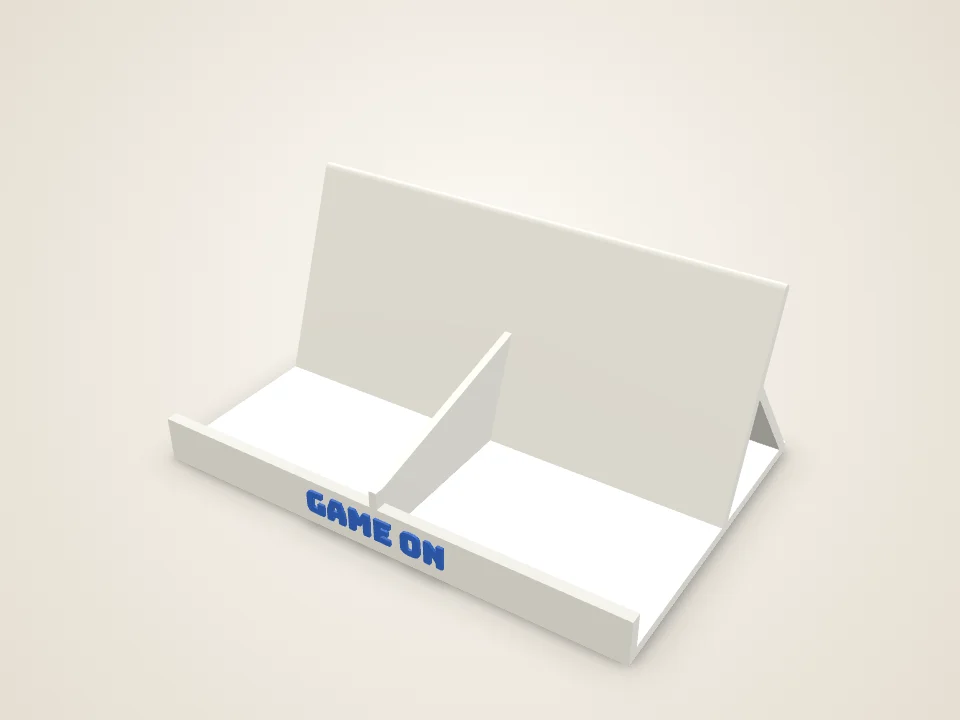
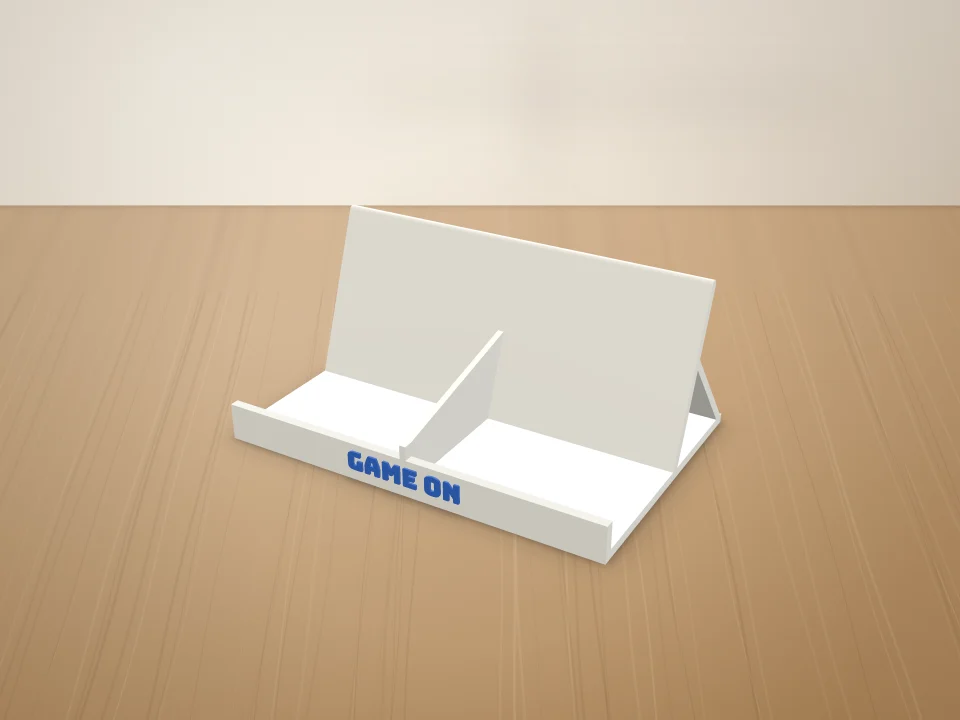
Miniaturas v2: fotos de producto sobre mesa de madera

diff --git a/src/viewer/Viewer.js b/src/viewer/Viewer.js
@@ -349,59 +349,81 @@ export class Viewer {
   }
 
   /**
-   * Foto lista para redes (4:5, 1080 × 1350): fondo de estudio, sombra suave y la marca abajo.
-   * Respeta el ángulo que el usuario eligió girando el modelo. Devuelve un Blob PNG.
+   * Foto de producto ambientada: el objeto apoyado en una mesa de madera, con una pared cálida desenfocada
+   * y luz de ventana (o de noche, si hay una lámpara encendida). Se renderiza al doble de tamaño y se achica,
+   * para que los bordes salgan suaves. Devuelve un Blob.
+   * - angle 'product': ángulo de catálogo (bajo para objetos altos, desde arriba para piezas planas).
+   *   Si no, respeta el ángulo que el usuario eligió girando el modelo.
    */
-  async photo({ width = 1080, height = 1350, title = '', brand = 'estratos3d.com', zoom = 1.15, type = 'image/png', quality } = {}) {
+  async photo({ width = 1080, height = 1350, title = '', brand = 'estratos3d.com', zoom = 1.15, type = 'image/png', quality, angle = 'user' } = {}) {
     if (this.failed || this.box.isEmpty()) return null;
-    const r = this.renderer, prevMode = this.sceneMode;
+    const r = this.renderer, prevMode = this.sceneMode, SS = 2;
     const prevSize = new THREE.Vector2(); r.getSize(prevSize);
     const prevRatio = r.getPixelRatio();
     const pos = this.camera.position.clone(), tgt = this.controls.target.clone();
     this.setScene('studio');
     r.setPixelRatio(1);
-    r.setSize(width, height, false);
+    r.setSize(width * SS, height * SS, false);
     this.camera.aspect = width / height;
     this.camera.updateProjectionMatrix();
-    // Mantiene la dirección de la vista actual, pero encuadra el objeto completo con aire.
+
     const sphere = this.box.getBoundingSphere(new THREE.Sphere());
     const fov = (this.camera.fov * Math.PI) / 180;
     const fit = Math.max(sphere.radius, 4) / Math.sin(fov / 2) / Math.min(1, this.camera.aspect * 0.9);
-    const dir = pos.clone().sub(tgt).normalize();
-    if (dir.z < 0.25) { dir.z = 0.25; dir.normalize(); }
-    // Piezas planas (llaveros, adornos, copos): se miran más desde arriba para que se luzcan.
     const sz = this.box.getSize(new THREE.Vector3());
-    if (sz.z < 0.3 * Math.max(sz.x, sz.y) && dir.z < 1.4 * Math.hypot(dir.x, dir.y)) {
-      const hz = Math.hypot(dir.x, dir.y) || 1;
-      dir.x = (dir.x / hz) * 0.55; dir.y = (dir.y / hz) * 0.55; dir.z = 0.84; dir.normalize();
+    const flat = sz.z < 0.3 * Math.max(sz.x, sz.y);
+    let dir;
+    if (angle === 'product') dir = flat ? new THREE.Vector3(0.32, -0.62, 1) : new THREE.Vector3(0.62, -1.05, sz.z > Math.max(sz.x, sz.y) ? 0.42 : 0.62);
+    else {
+      dir = pos.clone().sub(tgt);
+      if (dir.z < 0.25 * dir.length()) dir.z = 0.25 * dir.length();
+      if (flat && dir.z < 1.4 * Math.hypot(dir.x, dir.y)) { const hz = Math.hypot(dir.x, dir.y) || 1; dir.set((dir.x / hz) * 0.55, (dir.y / hz) * 0.55, 0.84); }
     }
-    this.camera.position.copy(sphere.center).add(dir.multiplyScalar(fit * zoom));
-    this.camera.lookAt(sphere.center);
+    dir.normalize();
+    // Objetos altos: se encuadra un poco más abajo del centro para que se vea la mesa
+    const aim = sphere.center.clone(); if (!flat) aim.z -= sphere.radius * 0.04;
+    this.camera.position.copy(aim).add(dir.clone().multiplyScalar(fit * zoom));
+    this.camera.lookAt(aim);
+    this.camera.updateMatrixWorld();
+    const prevOp = this.shadow.material.opacity;
+    this.shadow.material.opacity = 0.6; // sobre madera, la sombra de apoyo tiene que notarse
     r.render(this.scene, this.camera);
+    this.shadow.material.opacity = prevOp;
+
+    // Línea del fondo de la mesa: un punto del piso detrás del objeto, proyectado a la pantalla
+    const back = new THREE.Vector3(-dir.x, -dir.y, 0).normalize().multiplyScalar(sphere.radius * 2.6).add(new THREE.Vector3(sphere.center.x, sphere.center.y, this.box.min.z));
+    const pb = back.clone().project(this.camera);
+    const horizon = Math.min(0.72, Math.max(0, (1 - pb.y) / 2)) * height;
+    const base = new THREE.Vector3(sphere.center.x, sphere.center.y, this.box.min.z).project(this.camera);
+    const foot = { x: ((base.x + 1) / 2) * width, y: ((1 - base.y) / 2) * height };
 
     const c = document.createElement('canvas');
     c.width = width; c.height = height;
     const g = c.getContext('2d');
-    const bg = g.createRadialGradient(width / 2, height * 0.38, height * 0.05, width / 2, height * 0.5, height * 0.8);
     const night = this.lightsOn && this.hasGlow;
-    if (night) { bg.addColorStop(0, '#4A3A2C'); bg.addColorStop(0.55, '#241B15'); bg.addColorStop(1, '#120E0B'); }
-    else { bg.addColorStop(0, '#FBF8F2'); bg.addColorStop(1, '#E6DFD3'); }
-    g.fillStyle = bg; g.fillRect(0, 0, width, height);
+    paintRoom(g, width, height, horizon, night, foot);
+    g.imageSmoothingQuality = 'high';
     g.drawImage(r.domElement, 0, 0, width, height);
-    if (brand) {
-    // Marca: tres capas + nombre, abajo al centro
-    const y = height - 70;
-    g.font = '600 34px "IBM Plex Sans", system-ui, sans-serif';
-    g.textBaseline = 'middle';
-    const tw = g.measureText(brand).width, mark = 34, gap = 14, total = mark + gap + tw, x0 = (width - total) / 2;
-    g.fillStyle = '#1B6E63';
-    [[0.2, 0.6, 0.55], [0.1, 0.8, 0.8], [0, 1, 1]].forEach(([ox, w, a], i) => { g.globalAlpha = a; g.beginPath(); if (g.roundRect) g.roundRect(x0 + ox * mark, y - 13 + i * 10, mark * w, 7, 3); else g.rect(x0 + ox * mark, y - 13 + i * 10, mark * w, 7); g.fill(); });
-    g.globalAlpha = 1;
-    g.fillStyle = night ? '#F1E6D8' : '#2B2E33'; g.fillText(brand, x0 + mark + gap, y + 1);
+    if (night) {
+      // Resplandor sobre la mesa alrededor de la lámpara
+      const glow = g.createRadialGradient(foot.x, foot.y, 0, foot.x, foot.y, width * 0.45);
+      glow.addColorStop(0, 'rgba(255,190,110,0.22)'); glow.addColorStop(1, 'rgba(255,190,110,0)');
+      g.globalCompositeOperation = 'screen'; g.fillStyle = glow; g.fillRect(0, horizon, width, height - horizon); g.globalCompositeOperation = 'source-over';
     }
-    if (title) { g.font = '700 46px "IBM Plex Sans", system-ui, sans-serif'; g.textAlign = 'center'; g.fillStyle = '#2B2E33'; g.fillText(title, width / 2, 90); }
+    if (brand) {
+      const y = height - 70;
+      g.font = '600 34px "IBM Plex Sans", system-ui, sans-serif';
+      g.textBaseline = 'middle';
+      const tw = g.measureText(brand).width, mark = 34, gap = 14, total = mark + gap + tw, x0 = (width - total) / 2;
+      g.fillStyle = 'rgba(20,16,12,0.45)';
+      if (g.roundRect) { g.beginPath(); g.roundRect(x0 - 22, y - 30, total + 44, 60, 30); g.fill(); }
+      g.fillStyle = '#7FE3D3';
+      [[0.2, 0.6, 0.55], [0.1, 0.8, 0.8], [0, 1, 1]].forEach(([ox, w, a], i) => { g.globalAlpha = a; g.beginPath(); if (g.roundRect) g.roundRect(x0 + ox * mark, y - 13 + i * 10, mark * w, 7, 3); else g.rect(x0 + ox * mark, y - 13 + i * 10, mark * w, 7); g.fill(); });
+      g.globalAlpha = 1;
+      g.fillStyle = '#FFFFFF'; g.fillText(brand, x0 + mark + gap, y + 1);
+    }
+    if (title) { g.font = '700 46px "IBM Plex Sans", system-ui, sans-serif'; g.textAlign = 'center'; g.fillStyle = night ? '#F1E6D8' : '#2B2E33'; g.fillText(title, width / 2, 90); }
 
-    // Restaura la vista del usuario
     r.setPixelRatio(prevRatio);
     r.setSize(prevSize.x, prevSize.y, false);
     this.resize();
@@ -422,4 +444,69 @@ export class Viewer {
     this.renderer.dispose();
     this.renderer.domElement.remove();
   }
+}
+
+/** Pseudoaleatorio reproducible para la veta de la madera. */
+function seeded(seed) { let a = seed >>> 0; return () => { a = (a * 1664525 + 1013904223) >>> 0; return a / 4294967296; }; }
+
+/**
+ * Pinta el ambiente de la foto: pared cálida con luz de ventana desenfocada y una mesa de madera
+ * en perspectiva desde `horizon` hacia abajo. De noche, todo más oscuro y con la luz cálida de la lámpara.
+ */
+function paintRoom(g, W, H, horizon, night, foot) {
+  // Pared
+  const wall = g.createLinearGradient(0, 0, 0, Math.max(1, horizon));
+  if (night) { wall.addColorStop(0, '#2A211B'); wall.addColorStop(1, '#3B2E24'); }
+  else { wall.addColorStop(0, '#E9DFD2'); wall.addColorStop(1, '#DDD0BF'); }
+  g.fillStyle = wall; g.fillRect(0, 0, W, Math.max(1, horizon) + 2);
+  // Luz de ventana (o de la lámpara sobre la pared)
+  const lx = night ? foot.x : W * 0.18, ly = night ? Math.min(horizon, foot.y) - H * 0.2 : H * 0.1;
+  const light = g.createRadialGradient(lx, ly, 0, lx, ly, W * (night ? 0.7 : 0.85));
+  if (night) { light.addColorStop(0, 'rgba(255,186,110,0.5)'); light.addColorStop(1, 'rgba(255,186,110,0)'); }
+  else { light.addColorStop(0, 'rgba(255,250,240,0.85)'); light.addColorStop(1, 'rgba(255,250,240,0)'); }
+  g.fillStyle = light; g.fillRect(0, 0, W, Math.max(1, horizon) + 2);
+  // Sombras suaves de una ventana con parteluz (día)
+  if (!night && horizon > H * 0.15) {
+    g.save(); g.filter = `blur(${Math.round(W * 0.025)}px)`; g.globalAlpha = 0.07; g.fillStyle = '#5A4632';
+    g.fillRect(W * 0.55, horizon * 0.08, W * 0.03, horizon * 0.8); g.fillRect(W * 0.38, horizon * 0.42, W * 0.5, W * 0.025);
+    g.restore();
+  }
+
+  // Mesa de madera
+  const top = Math.max(0, horizon);
+  const wood = g.createLinearGradient(0, top, 0, H);
+  if (night) { wood.addColorStop(0, '#3A2618'); wood.addColorStop(1, '#22160E'); }
+  else { wood.addColorStop(0, '#C9A57E'); wood.addColorStop(1, '#AE8659'); }
+  g.fillStyle = wood; g.fillRect(0, top, W, H - top);
+  // Veta: líneas que se juntan hacia el fondo (perspectiva)
+  const rnd = seeded(7), vx = W * 0.5, vy = top - H * 1.2;
+  g.save(); g.beginPath(); g.rect(0, top, W, H - top); g.clip();
+  for (let i = 0; i < 90; i++) {
+    const x = (rnd() * 1.6 - 0.3) * W, w = 0.6 + rnd() * 2.2;
+    g.strokeStyle = night ? `rgba(0,0,0,${0.08 + rnd() * 0.12})` : (rnd() > 0.5 ? `rgba(90,58,30,${0.05 + rnd() * 0.08})` : `rgba(255,236,210,${0.05 + rnd() * 0.07})`);
+    g.lineWidth = w; g.beginPath();
+    for (let t = 0; t <= 1.0001; t += 0.05) {
+      const yy = top + (H - top) * t, k = (yy - vy) / (H - vy);
+      const xx = vx + (x - vx) * k + Math.sin(t * 9 + i) * 2.5 * k;
+      t === 0 ? g.moveTo(xx, yy) : g.lineTo(xx, yy);
+    }
+    g.stroke();
+  }
+  // Borde trasero de la mesa y reflejo suave de la luz
+  if (top > 0) {
+    g.fillStyle = night ? 'rgba(0,0,0,0.35)' : 'rgba(80,52,28,0.18)'; g.fillRect(0, top, W, Math.max(2, H * 0.004));
+  }
+  const sheen = g.createRadialGradient(night ? foot.x : W * 0.3, top + (H - top) * 0.25, 0, night ? foot.x : W * 0.3, top + (H - top) * 0.25, W * 0.7);
+  sheen.addColorStop(0, night ? 'rgba(255,170,90,0.18)' : 'rgba(255,248,235,0.28)'); sheen.addColorStop(1, 'rgba(255,248,235,0)');
+  g.fillStyle = sheen; g.fillRect(0, top, W, H - top);
+  // Profundidad de campo: el fondo de la mesa, apenas desenfocado
+  if (top > 0 && g.filter !== undefined) {
+    const band = Math.min(H - top, H * 0.12);
+    g.save(); g.filter = 'blur(3px)'; g.drawImage(g.canvas, 0, top, W, band, 0, top, W, band); g.restore();
+  }
+  g.restore();
+  // Viñeta
+  const vg = g.createRadialGradient(W / 2, H * 0.55, Math.min(W, H) * 0.35, W / 2, H * 0.55, Math.max(W, H) * 0.85);
+  vg.addColorStop(0, 'rgba(0,0,0,0)'); vg.addColorStop(1, night ? 'rgba(0,0,0,0.55)' : 'rgba(60,40,20,0.22)');
+  g.fillStyle = vg; g.fillRect(0, 0, W, H);
 }

diff --git a/src/content/thumbs.js b/src/content/thumbs.js
@@ -1,3 +1,3 @@
 // Generado por `npm run miniaturas`. No lo edites a mano.
-export const THUMB_VERSION = 'mvy0vux8';
+export const THUMB_VERSION = 'mvy35y6y';
 export const THUMBS = new Set(["adorno-navidad","arbol-conico","bandeja-cajon","cartel-deslizante","cartel-wifi","copo-nieve","display-qr","estrella-arbol","florero-low-poly","lampara-led","llavero","llavero-pared-panal","llavero-qr","maceta","organizador","organizador-controles","pantalla-lampara","placa","portalapices-panal","posavasos","servilletero","soporte-auriculares","soporte-celular","soporte-mandos","soporte-notebook"]);
